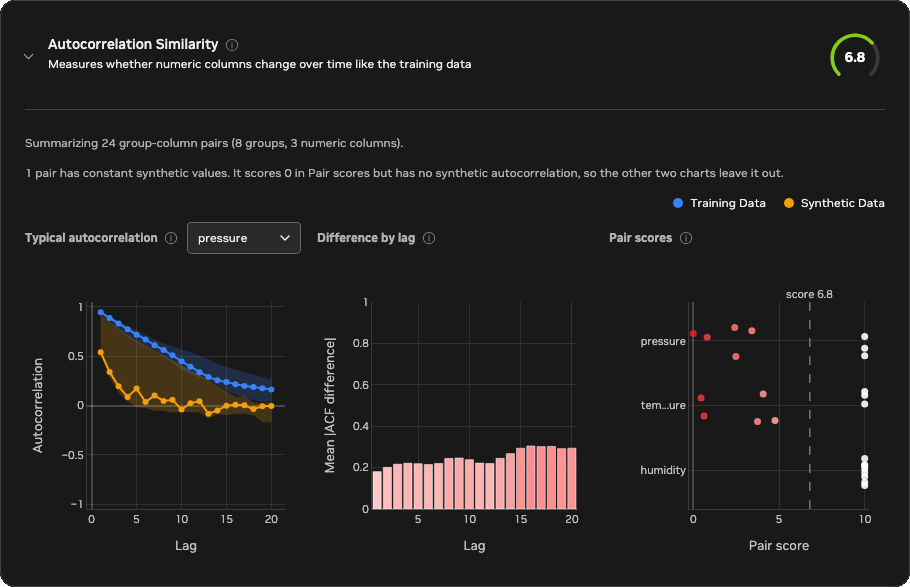
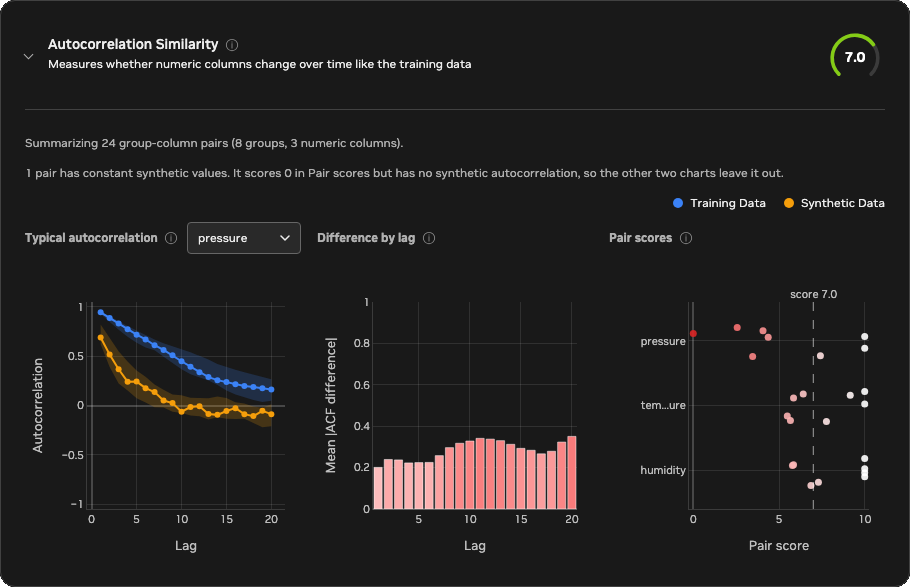
docs: use gradually degraded sensors in the autocorrelation report example

diff --git a/docs/user-guide/time-series-metrics/autocorrelation-similarity.md b/docs/user-guide/time-series-metrics/autocorrelation-similarity.md
@@ -100,13 +100,13 @@ The metric card shows three charts built from every evaluated group and column
 pair. Select the info icon next to a chart title for a short reminder of how
 to read it.
 
-![The Autocorrelation Similarity card in the HTML evaluation report, showing a score of 6.8 with the Typical autocorrelation, Difference by lag, and Pair scores charts.](assets/autocorrelation-report.png)
+![The Autocorrelation Similarity card in the HTML evaluation report, showing a score of 7.0 with the Typical autocorrelation, Difference by lag, and Pair scores charts.](assets/autocorrelation-report.png)
 
 The example above comes from a dataset of eight sensors, grouped by sensor ID,
 with three numeric columns: `temperature`, `pressure`, and `humidity`. The
-synthetic data reproduces sensors 0 to 2 well, loses persistence in
-`temperature` and `pressure` for sensors 3 to 7, and generates a constant
-`pressure` series for sensor 7. `humidity` is preserved for every sensor. You
+synthetic data reproduces sensor 0 closely and drifts further from the
+training data with each sensor after it: weaker persistence, a stretched
+cycle, and more noise. Sensor 7 also has a constant `pressure` series. You
 can confirm each of these details in the report itself: use the column
 selector on the first chart, and hover over any bar or point to see its exact
 values.
@@ -116,26 +116,26 @@ values.
   the middle 50% of groups. The chart opens on the column with the lowest mean
   pair score, here `pressure`. Use the column selector next to the title to
   switch columns. For `pressure`, training autocorrelation decays slowly from
-  about 0.9, while the synthetic median drops below 0.2 by lag 5, so most
-  synthetic sensors lost the persistence of the training data.
+  about 0.9, while the synthetic median drops to about 0.25 by lag 4 and to 0
+  by lag 10, so most synthetic sensors lost part of the training data's
+  persistence.
 - Difference by lag: plots the mean absolute difference between the training
   and synthetic profiles of each pair at each lag, across all numeric columns.
   Hover over a bar to see its exact value. Here the difference grows from
-  about 0.18 at lag 1 to about 0.3 at lag 15 and beyond, so the loss is largest
-  for long-range persistence. A peak at one lag instead points to a missing or
+  about 0.2 at lag 1 to about 0.3 to 0.35 from lag 9 onward, so the loss is
+  largest for long-range persistence. A peak at one lag instead points to a missing or
   shifted cycle. The y-axis always spans at least 0 to 1, so short, pale bars
   mean small differences, and bars turn red as the difference approaches 0.5.
 - Pair scores: plots the score of every group and column pair on the 0–10
   scale, with the overall score marked by the dashed line. Each point is one
   sensor, shaded from white at 10 to red at 0. Points within a row are spread
   out vertically so that equal scores stay visible. Hover over a point to see
-  its full column name, group, and score. `humidity` scores 10 for all
-  sensors. `pressure` and `temperature` score about 10 for the
-  well-reproduced sensors 0 to 2 and between about 2.5 and 5 for sensors 3 to
-  5. Sensors 6 and 7 have no synthetic structure over time and score below 1,
-  and the constant sensor 7 `pressure` series scores 0. The gap between the
-  overall score and 10 is therefore driven by specific sensors rather than
-  the whole dataset. The chart shows the 8 lowest-scoring columns. Column
+  its full column name, group, and score. Each column's scores fall steadily
+  from 10 for the first sensors toward the last ones. `temperature` and
+  `humidity` stay above about 5.5, while `pressure` falls to between about 2.5
+  and 4.5 for sensors 3 to 6 and to 0 for the constant sensor 7 series. The
+  gap between the overall score and 10 therefore comes mostly from the later
+  sensors and from `pressure`, rather than from every pair equally. The chart shows the 8 lowest-scoring columns. Column
   names longer than 10 characters are shortened to their first and last three
   characters, as with `tem...ure`.
 
